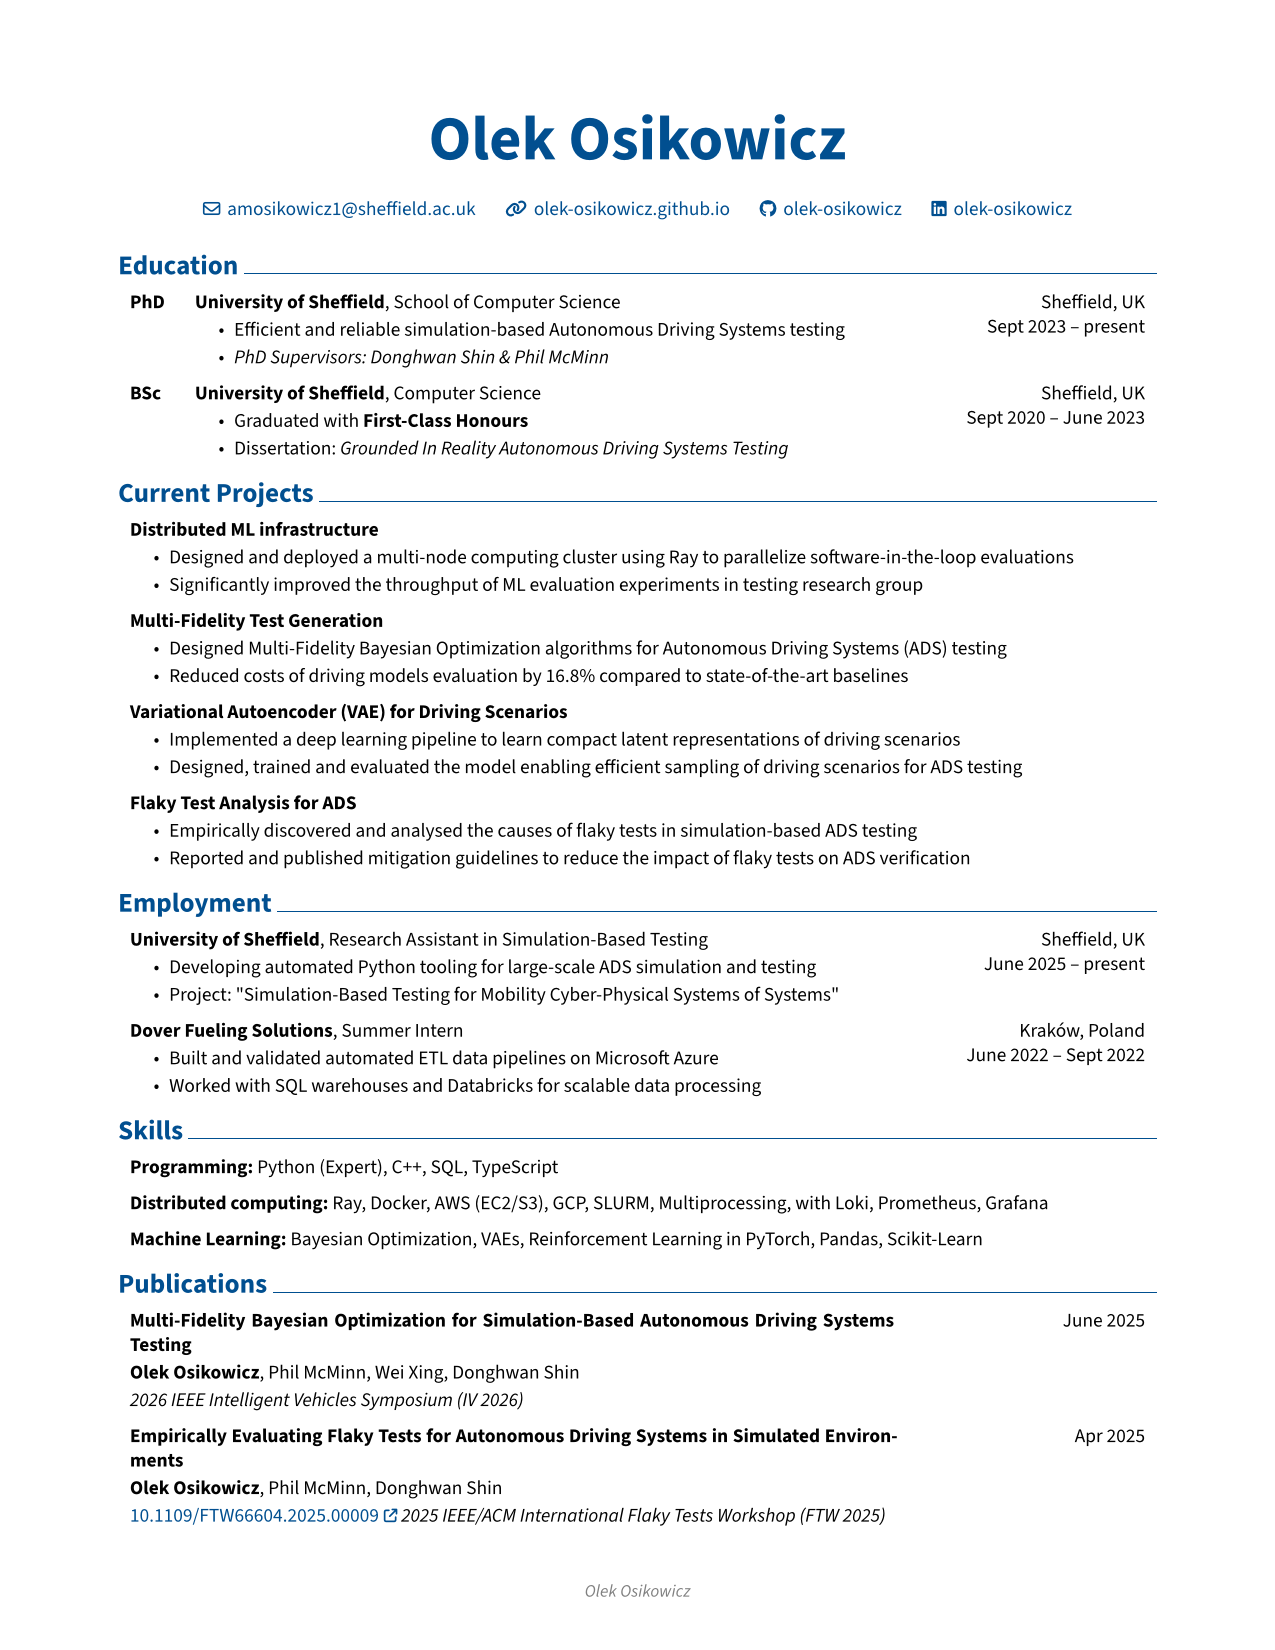
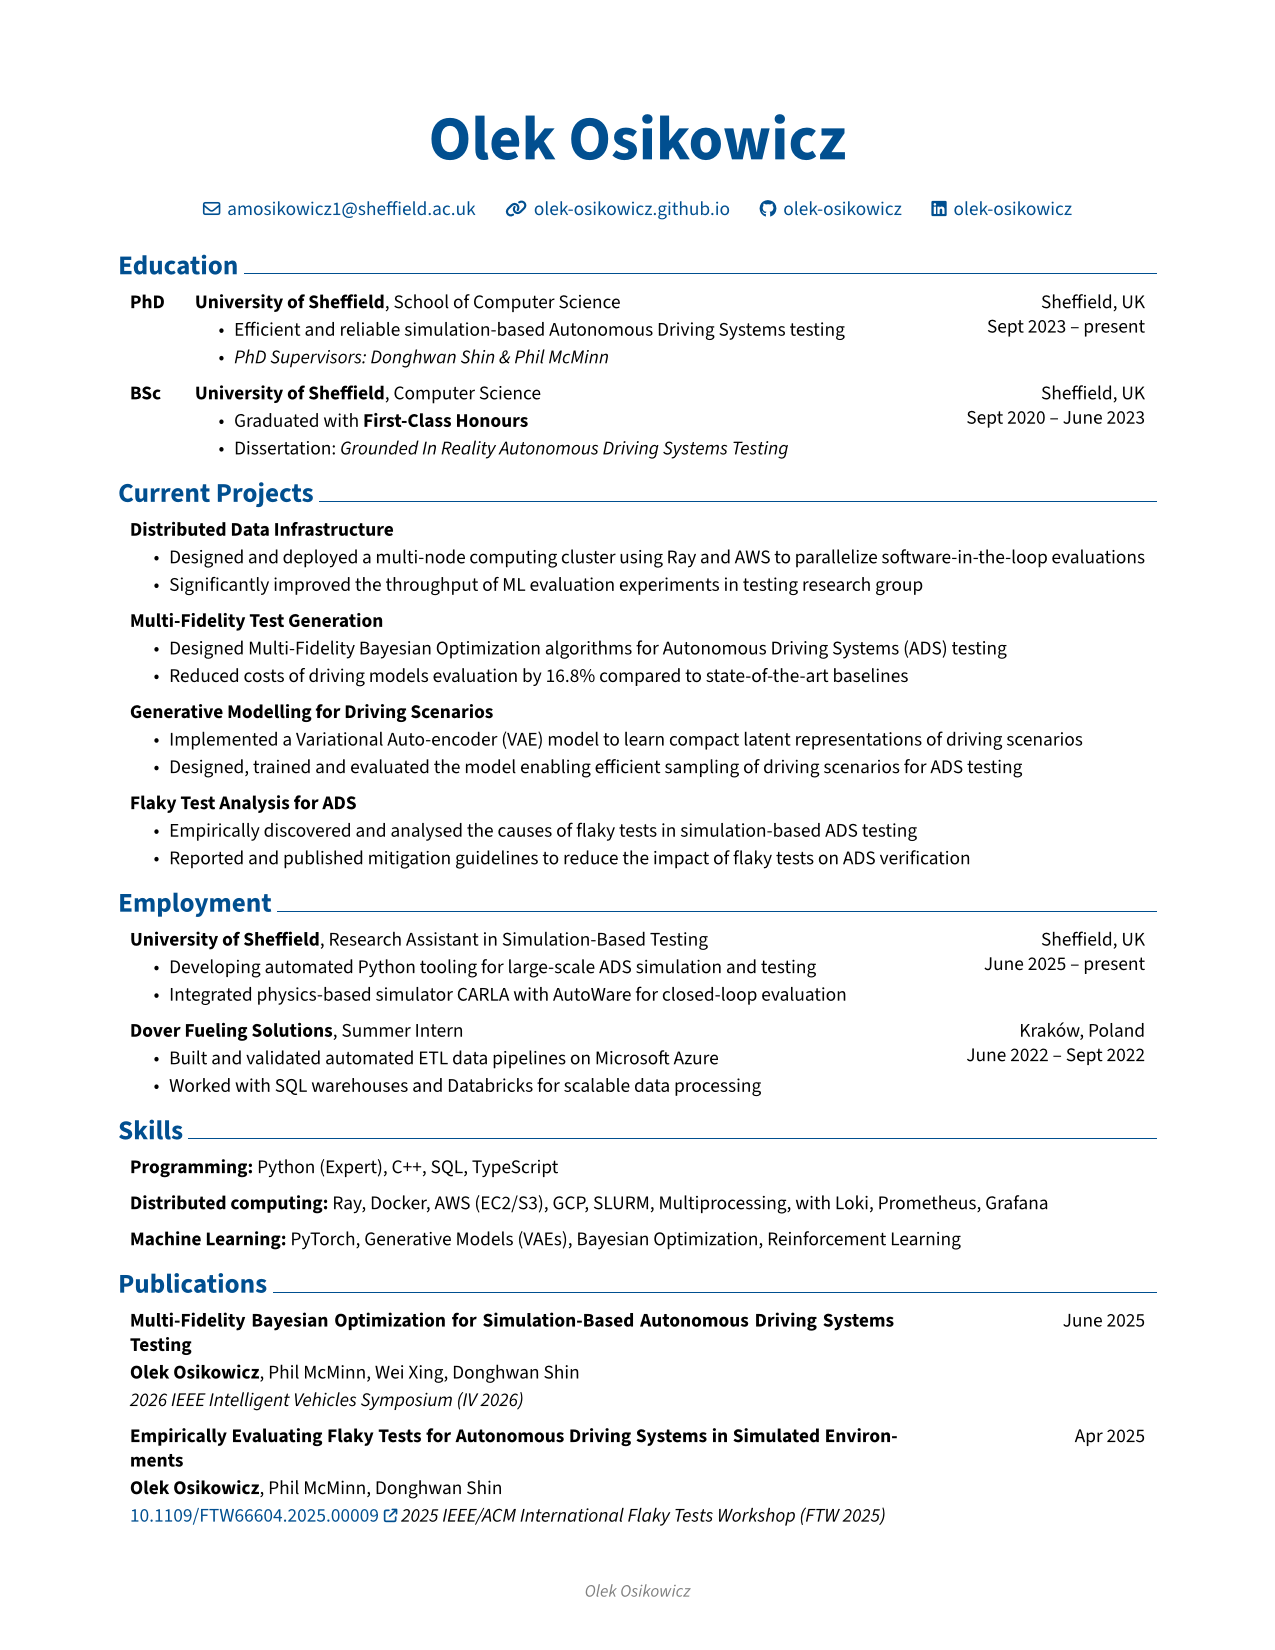
Polish the CV

diff --git a/one_page/Olek_Osikowicz_CV.html b/one_page/Olek_Osikowicz_CV.html
@@ -62,9 +62,9 @@
         <li>Dissertation: <em>Grounded In Reality Autonomous Driving Systems Testing</em></li>
         </ul>
         <h1>Current Projects</h1>
-        <h2>Distributed ML infrastructure</h2>
+        <h2>Distributed Data Infrastructure</h2>
         <ul>
-        <li>Designed and deployed a multi-node computing cluster using Ray to parallelize software-in-the-loop evaluations</li>
+        <li>Designed and deployed a multi-node computing cluster using Ray and AWS to parallelize software-in-the-loop evaluations</li>
         <li>Significantly improved the throughput of ML evaluation experiments in testing research group</li>
         </ul>
         <h2>Multi-Fidelity Test Generation</h2>
@@ -72,9 +72,9 @@
         <li>Designed Multi-Fidelity Bayesian Optimization algorithms for Autonomous Driving Systems (ADS) testing</li>
         <li>Reduced costs of driving models evaluation by 16.8% compared to state-of-the-art baselines</li>
         </ul>
-        <h2>Variational Autoencoder (VAE) for Driving Scenarios</h2>
+        <h2>Generative Modelling for Driving Scenarios</h2>
         <ul>
-        <li>Implemented a deep learning pipeline to learn compact latent representations of driving scenarios</li>
+        <li>Implemented a Variational Auto-encoder (VAE) model to learn compact latent representations of driving scenarios</li>
         <li>Designed, trained and evaluated the model enabling efficient sampling of driving scenarios for ADS testing</li>
         </ul>
         <h2>Flaky Test Analysis for ADS</h2>
@@ -88,7 +88,7 @@
         <li>June 2025 – present</li>
         <li>Sheffield, UK</li>
         <li>Developing automated Python tooling for large-scale ADS simulation and testing</li>
-        <li>Project: "Simulation-Based Testing for Mobility Cyber-Physical Systems of Systems"</li>
+        <li>Integrated physics-based simulator CARLA with AutoWare for closed-loop evaluation</li>
         </ul>
         <h2>Dover Fueling Solutions, Summer Intern</h2>
         <ul>
@@ -101,7 +101,7 @@
         <ul>
         <li>Programming: Python (Expert), C++, SQL, TypeScript</li>
         <li>Distributed computing: Ray, Docker, AWS (EC2/S3), GCP, SLURM, Multiprocessing, with Loki, Prometheus, Grafana</li>
-        <li>Machine Learning: Bayesian Optimization, VAEs, Reinforcement Learning in PyTorch, Pandas, Scikit-Learn.</li>
+        <li>Machine Learning: PyTorch, Generative Models (VAEs), Bayesian Optimization, Reinforcement Learning</li>
         </ul>
         <h1>Publications</h1>
         <h2>Multi-Fidelity Bayesian Optimization for Simulation-Based Autonomous Driving Systems Testing</h2>

diff --git a/one_page/Olek_Osikowicz_CV.md b/one_page/Olek_Osikowicz_CV.md
@@ -24,9 +24,9 @@
 
 # Current Projects
 
-## Distributed ML infrastructure
+## Distributed Data Infrastructure
 
-- Designed and deployed a multi-node computing cluster using Ray to parallelize software-in-the-loop evaluations
+- Designed and deployed a multi-node computing cluster using Ray and AWS to parallelize software-in-the-loop evaluations
 - Significantly improved the throughput of ML evaluation experiments in testing research group
 
 ## Multi-Fidelity Test Generation
@@ -34,9 +34,9 @@
 - Designed Multi-Fidelity Bayesian Optimization algorithms for Autonomous Driving Systems (ADS) testing
 - Reduced costs of driving models evaluation by 16.8% compared to state-of-the-art baselines
 
-## Variational Autoencoder (VAE) for Driving Scenarios
+## Generative Modelling for Driving Scenarios
 
-- Implemented a deep learning pipeline to learn compact latent representations of driving scenarios
+- Implemented a Variational Auto-encoder (VAE) model to learn compact latent representations of driving scenarios
 - Designed, trained and evaluated the model enabling efficient sampling of driving scenarios for ADS testing
 
 ## Flaky Test Analysis for ADS
@@ -51,7 +51,7 @@
 - June 2025 – present
 - Sheffield, UK
 - Developing automated Python tooling for large-scale ADS simulation and testing
-- Project: "Simulation-Based Testing for Mobility Cyber-Physical Systems of Systems"
+- Integrated physics-based simulator CARLA with AutoWare for closed-loop evaluation
 
 ## Dover Fueling Solutions, Summer Intern
 
@@ -64,7 +64,7 @@
 
 - Programming: Python (Expert), C++, SQL, TypeScript
 - Distributed computing: Ray, Docker, AWS (EC2/S3), GCP, SLURM, Multiprocessing, with Loki, Prometheus, Grafana
-- Machine Learning: Bayesian Optimization, VAEs, Reinforcement Learning in PyTorch, Pandas, Scikit-Learn.
+- Machine Learning: PyTorch, Generative Models (VAEs), Bayesian Optimization, Reinforcement Learning
 # Publications
 
 ## Multi-Fidelity Bayesian Optimization for Simulation-Based Autonomous Driving Systems Testing 
